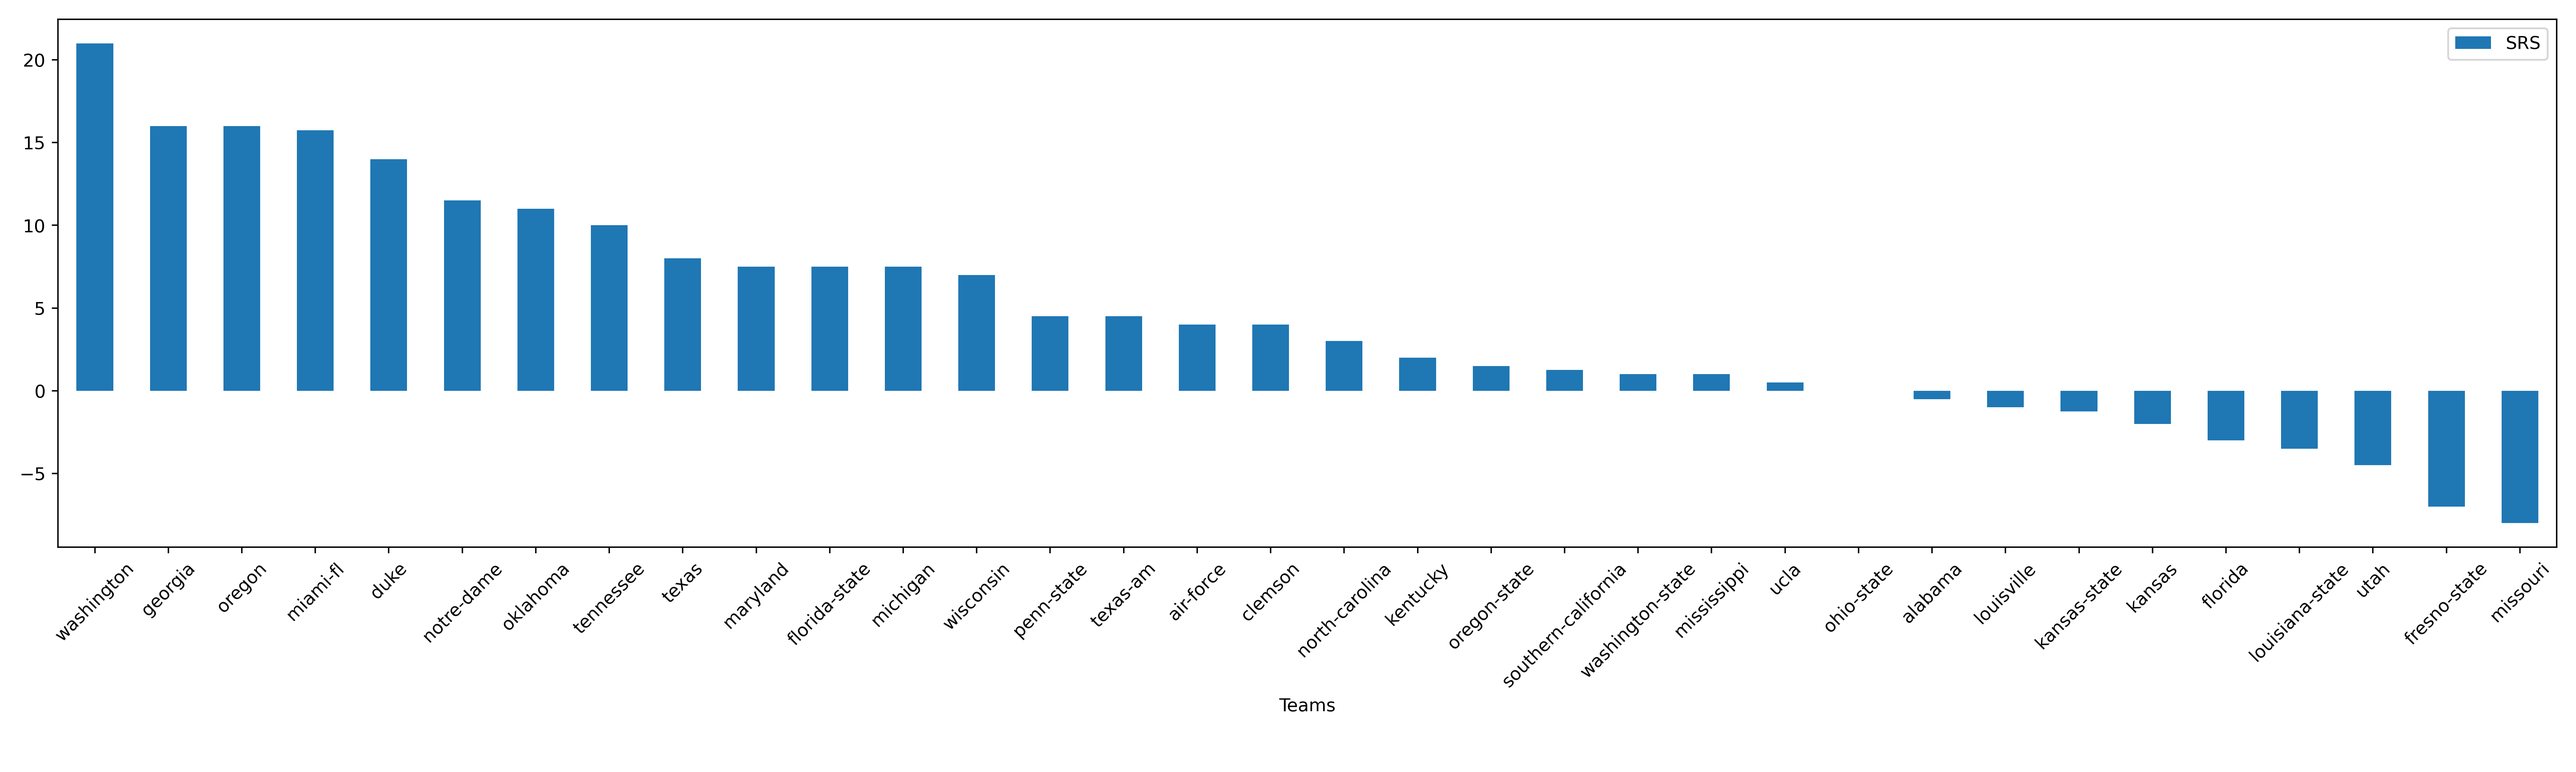
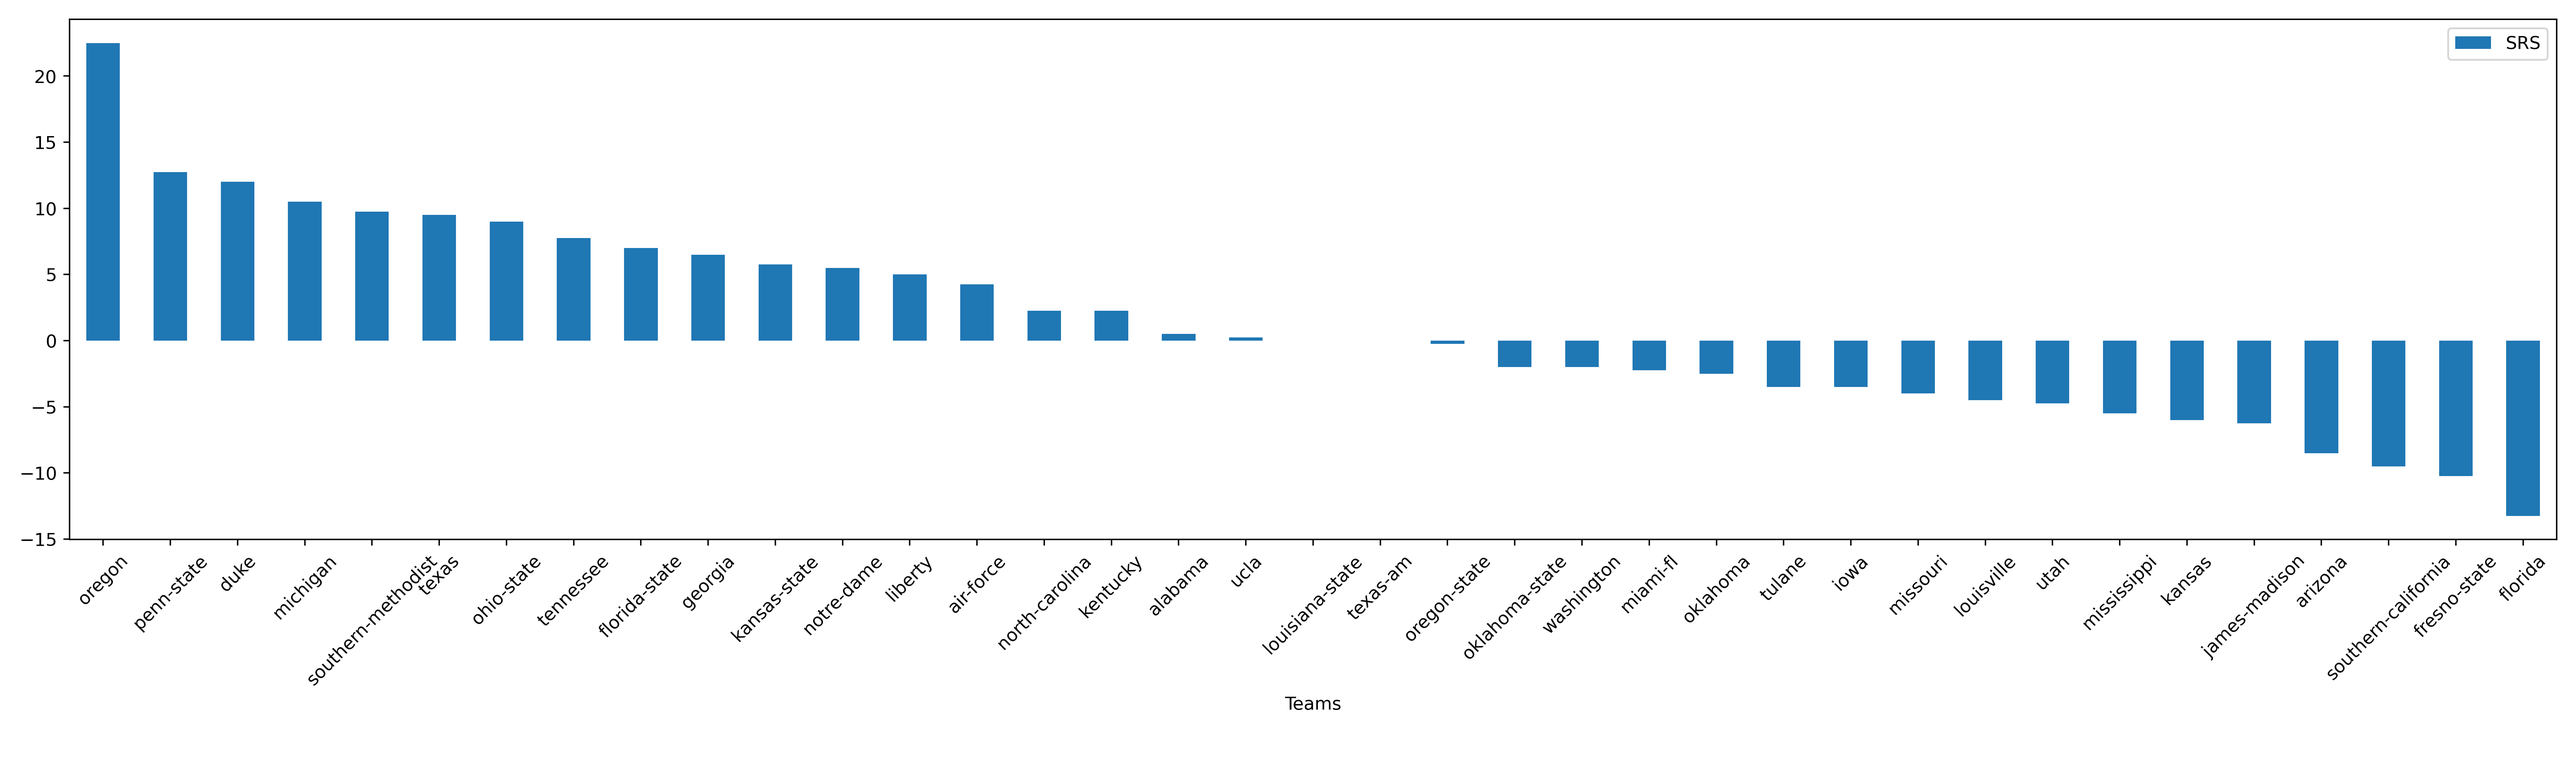
UPDATE SRS

diff --git a/deep_learning_multiclass.py b/deep_learning_multiclass.py
@@ -424,6 +424,11 @@ class deepCfbMulti():
                 #     team_2_df = team_2_df.iloc[-len(team_1_df):]
                 # if len(team_2_df) < len(team_1_df):
                 #     team_2_df = concat([team_2_df] * (len(team_1_df) // len(team_2_df)) + [team_2_df.iloc[:len(team_1_df) % len(team_2_df)]])
+
+                #get feature variance
+                team_1_feature_var = team_1_df.var().sum()
+                team_2_feature_var = team_2_df.var().sum()
+
                 # Replace the data from one df with the corresponding data from other df
                 for col in columns_to_replace:
                     opp_col = col + '_opp'
@@ -493,6 +498,9 @@ class deepCfbMulti():
                 # print('Win Probabilities from RandomForest feature predictions')
                 # print(Fore.YELLOW + Style.BRIGHT + f'{self.team_1} : {(prediction_rf_1[0][0])*100} %' + Fore.CYAN + Style.BRIGHT +
                 #     f' {self.team_2} : {(prediction_rf_1[0][1])*100} %'+ Style.RESET_ALL)
+                print('Feature variance between both teams')
+                print(Fore.YELLOW + Style.BRIGHT + f'{self.team_1} feature variance: {team_1_feature_var}'+ Style.RESET_ALL)
+                print(Fore.CYAN + Style.BRIGHT + f'{self.team_2} feature variance: {team_2_feature_var}'+ Style.RESET_ALL)
                 print('Win Probabilities from rolling median of 2 predictions')
                 print(Fore.YELLOW + Style.BRIGHT + f'{self.team_1} : {round((prediction_rolling_1[0][0])*100,3)} %' + Fore.CYAN + Style.BRIGHT +
                     f' {self.team_2} : {round((prediction_rolling_1[0][1])*100,3)} %'+ Style.RESET_ALL)

diff --git a/simple_rating_system.py b/simple_rating_system.py
@@ -8,8 +8,10 @@ from pandas import DataFrame, read_csv
 from tqdm import tqdm
 from matplotlib.pyplot import show, xticks, tight_layout, savefig
 import argparse
-from os.path import exists
+from os.path import exists, join
 from colorama import Fore, Style
+import yaml
+from os import getcwd
 """
 Rating = Team's Average Point Differential - Strength of Schedule
 and then rank each team
@@ -34,11 +36,10 @@ def get_df(team):
     return team, opps
 
 def teams_to_test():
-    with open('top_30_teams.txt','r') as file:
-        content = file.read()
-    all_teams = content.split("\n")
-    all_teams = [string for string in all_teams if string.strip() != ""]
-    return all_teams
+    with open(join(getcwd(),'team_rankings_year.yaml')) as file:
+            teams_dict_year = yaml.load(file, Loader=yaml.FullLoader)
+    teams_list = teams_dict_year[2023]
+    return teams_list
 
 def get_pt_diff_team_1(df):
     df[['team_1_score', 'team_2_score']] = df['game_result'].str.extract(r'(\d+)-(\d+)').astype(int)
